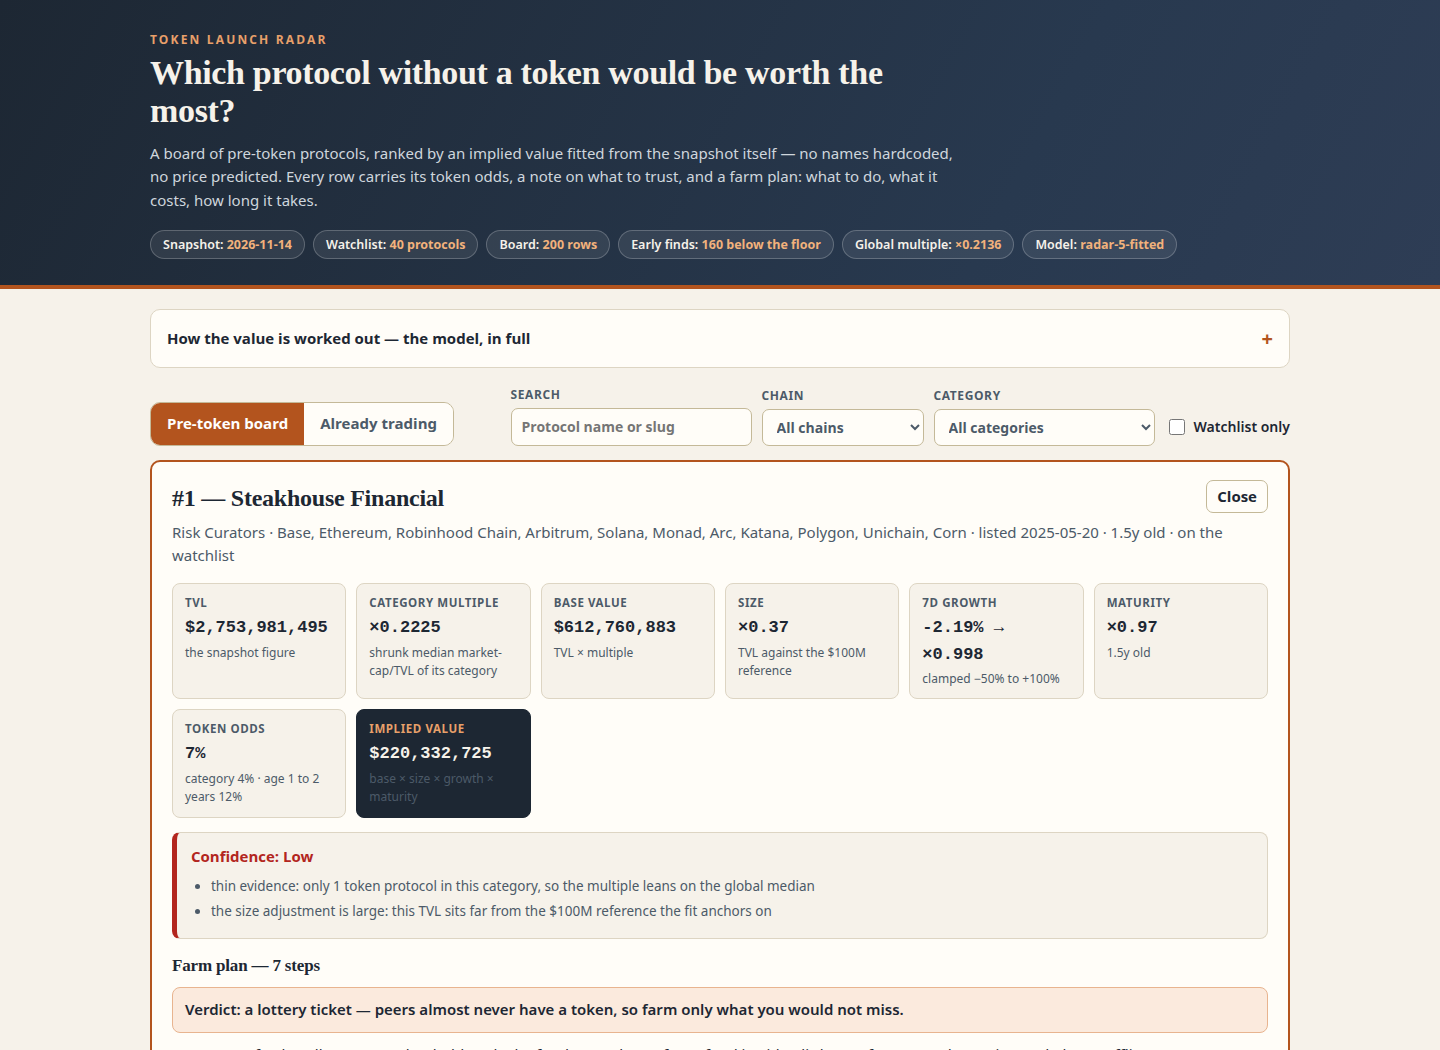
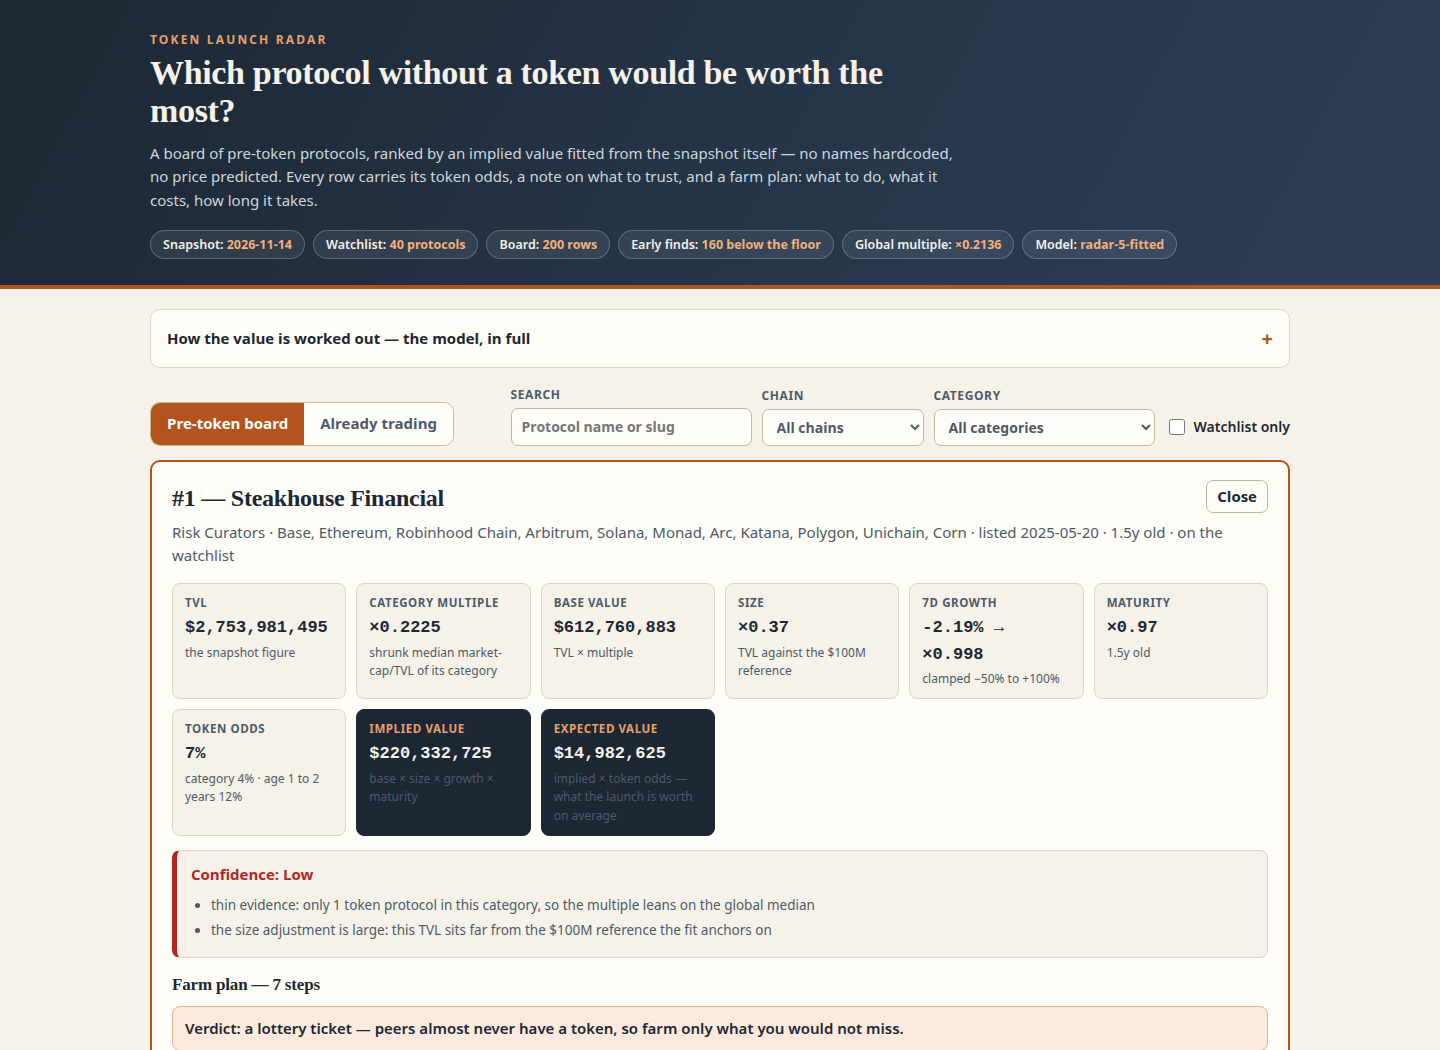
Launch radar v8: expected value (implied x token odds) in the detail view
The v5 board is at its ceiling for model quality: the value model's
held-out RMSE is 2.119 no matter which knobs the grid offers (dropping
growth and maturity changes it to 2.118), and an honest logistic odds
model gives the top rows 2-5% odds and reshuffles the ranking badly,
so neither a model retune nor odds-weighted ranking is a real gain.
The top board's one honest, replicable idea is to show the
odds-weighted value next to the conditional value, so the reader sees
what the launch is worth on average. v8 adds exactly that: every row
carries expected_value_usd (implied x token odds) and the detail view
shows it beside the implied value. Ranking, model and main table are
unchanged (v5, radar-5-fitted).

Changed region(s): [[0.0938, 0.6705, 0.9062, 1.0]]

diff --git a/lib/model.ts b/lib/model.ts
@@ -971,6 +971,13 @@ export interface BoardRow {
   token_status: 'pre-token';
   age_days: number | null;
   implied_value_usd: number;
+  /** The odds-weighted value: implied × token odds. The implied value is
+   * what the token would be worth if it launches; the expected value is
+   * that figure weighted by how often peers like this one actually
+   * launch, so it is the value a farmer should plan around. It never
+   * moves the ranking (the board still ranks by the implied value), it
+   * only tells the reader what the launch is worth on average. */
+  expected_value_usd: number;
   token_odds: number;
   odds_category_rate: number;
   odds_age_rate: number;
@@ -1002,6 +1009,7 @@ export interface RadarRow {
   listed_at: string | null;
   age_days: number | null;
   implied_value_usd: number;
+  expected_value_usd: number;
   token_odds: number;
   odds_category_rate: number;
   odds_age_rate: number;
@@ -1102,6 +1110,7 @@ export function buildBoard(
     token_status: 'pre-token' as const,
     age_days: s.age,
     implied_value_usd: s.implied,
+    expected_value_usd: Math.round(s.implied * s.odds.odds),
     token_odds: s.odds.odds,
     odds_category_rate: s.odds.categoryRate,
     odds_age_rate: s.odds.ageRate,
@@ -1152,6 +1161,7 @@ export function radarRow(row: BoardRow): RadarRow {
     listed_at: row.listed_at,
     age_days: row.age_days,
     implied_value_usd: row.implied_value_usd,
+    expected_value_usd: row.expected_value_usd,
     token_odds: row.token_odds,
     odds_category_rate: row.odds_category_rate,
     odds_age_rate: row.odds_age_rate,

diff --git a/dashboard/index.html b/dashboard/index.html
@@ -74,7 +74,12 @@
       <p><strong>Token odds.</strong> How often protocols like this one have a token: the
         category's token rate and the age bucket's token rate, each shrunk toward the global
         rate of 19%, blended 70% category and 30% age. The odds never move the ranking; they
-        tell the reader how likely the launch this board is priced for actually is.</p>
+        tell the reader how likely the launch this board is priced for actually is.
+        <strong>Expected value</strong> is the implied value times the token odds — what the
+        launch is worth on average, once the chance it never happens is counted. A row with
+        a large implied value and low odds is a lottery ticket; a row with a smaller implied
+        value and high odds can be worth more on average, and the detail view shows both
+        figures side by side so the reader can see which kind of case each row is.</p>
       <table class="multiples" id="odds-age">
         <thead><tr><th>Age bucket</th><th>Token protocols</th><th>All protocols</th><th>Rate used</th></tr></thead>
         <tbody></tbody>

diff --git a/dashboard/app.js b/dashboard/app.js
@@ -319,6 +319,11 @@
     total.appendChild(el('div', 'value', fmtUsdFull(row.implied_value_usd)));
     total.appendChild(el('div', 'formula', 'base × size × growth × maturity'));
     grid.appendChild(total);
+    var expected = el('div', 'model-cell total');
+    expected.appendChild(el('div', 'label', 'Expected value'));
+    expected.appendChild(el('div', 'value', fmtUsdFull(row.expected_value_usd)));
+    expected.appendChild(el('div', 'formula', 'implied × token odds — what the launch is worth on average'));
+    grid.appendChild(expected);
     box.appendChild(grid);
 
     var strip = el('div', 'integrity conf-' + row.confidence);
